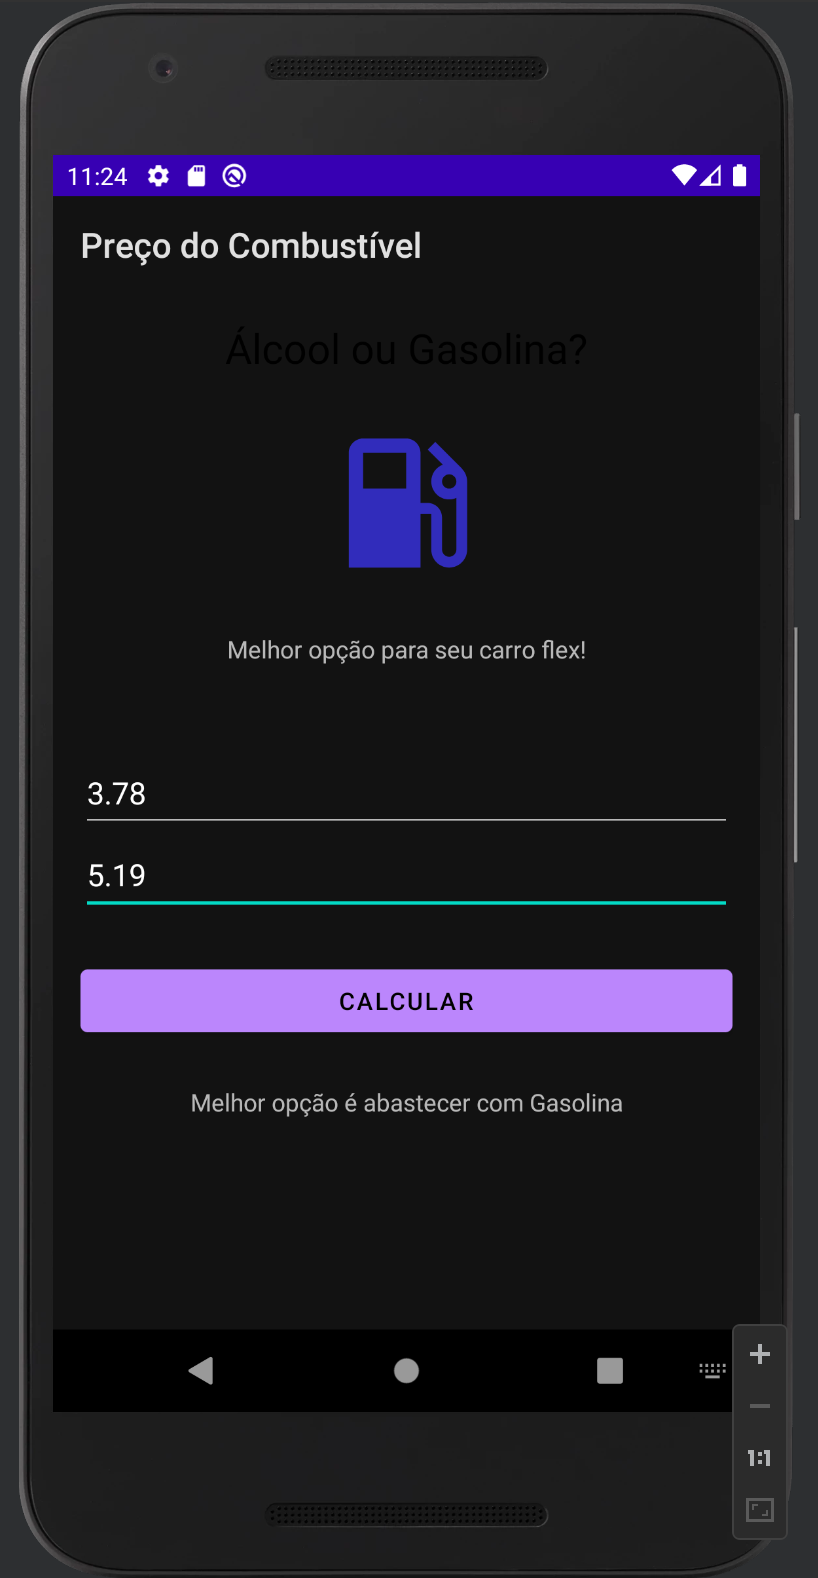
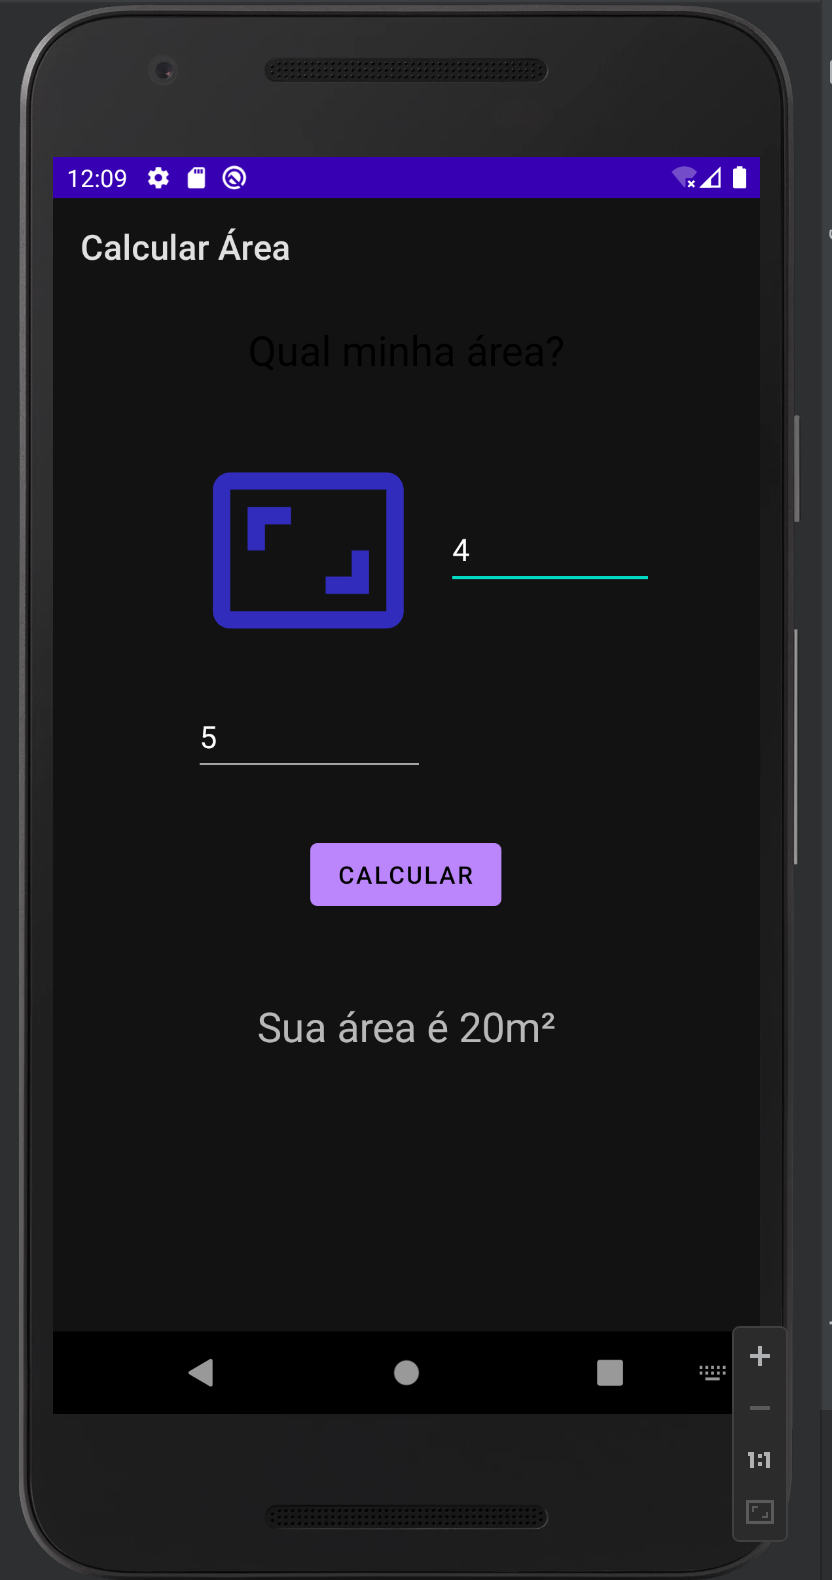
convertendo nosso aplicativo para calcular áreas

diff --git a/app/src/main/java/com/example/kt_003_alcool_vs_gasolina/MainActivity.kt b/app/src/main/java/com/example/kt_003_alcool_vs_gasolina/MainActivity.kt
@@ -12,32 +12,29 @@ class MainActivity : AppCompatActivity() {
     }
 
     fun calculate(view: View) {
-        val priceAlcohol = input_alcohol.text.toString()
-        val priceGas = input_gas.text.toString()
+        val height = inputHeight.text.toString()
+        val width = inputWidth.text.toString()
 
-        if (checkValues(priceAlcohol, priceGas)) {
-            return makeBestPrice(priceAlcohol, priceGas)
+        if (checkValues(height, width)) {
+            return makeArea(height, width)
         }
-
-        text_result.text = getString(R.string.error_invalid_fields)
+        errorView.text = getString(R.string.error_empty)
+        resultView.text = ""
     }
 
-    private fun checkValues(priceAlcohol: String, priceGas: String): Boolean {
-        if (priceAlcohol.isEmpty() || priceAlcohol.isBlank()) return false
-        if (priceGas.isEmpty() || priceGas.isBlank()) return false
+    private fun checkValues(height: String, width: String): Boolean {
+        if (height.isEmpty() || height.isBlank()) return false
+        if (width.isEmpty() || width.isBlank()) return false
         return true
     }
 
-    private fun makeBestPrice(priceAlcohol: String, priceGas: String) {
-        val priceAlcoholDoubled = priceAlcohol.toDouble()
-        val priceGasDoubled = priceGas.toDouble()
+    private fun makeArea(height: String, width: String) {
+        val height = height.toDouble()
+        val width = width.toDouble()
 
-        val result = priceAlcoholDoubled / priceGasDoubled
+        val result = height * width
 
-        if (result >= 0.7) {
-            text_result.text = getString(R.string.response_best_gas)
-        } else {
-            text_result.text = getString(R.string.response_best_alcohol)
-        }
+        errorView.text = ""
+        resultView.text = "${getString(R.string.result_area)} ${result.toInt()}m²";
     }
 }

diff --git a/README.md b/README.md
@@ -4,6 +4,6 @@ versionName: "1.0.1"
 
 # Introdução
 Este aplicativo foi desenvolvido para fins academicos na aula de Desenvolvimento Android com Kotlin<br><br>
-Nosso aplicativo tem como objetivo receber o valor do preço da gasolina e o preço do álcool, com este valores calcular qual é mais benefico para você abastecer.
+Nosso aplicativo tem como objetivo receber os valores de altura e largura e dar o resultado da área em metros quadrados
 
 <img src="images/evidencia.png" width="200px">
